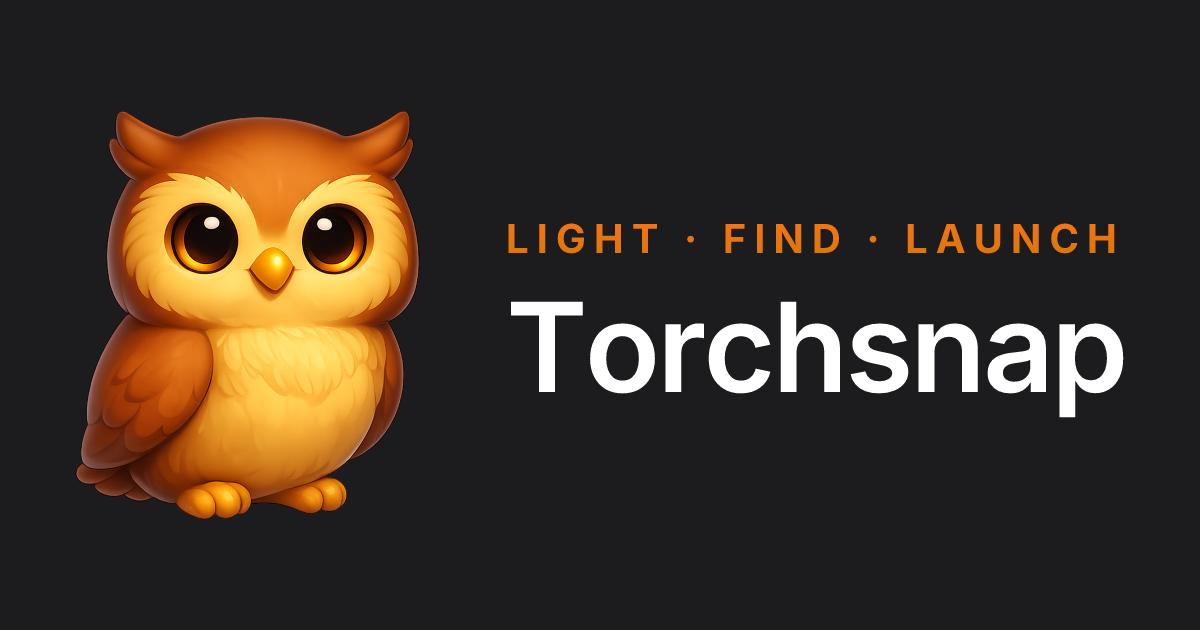
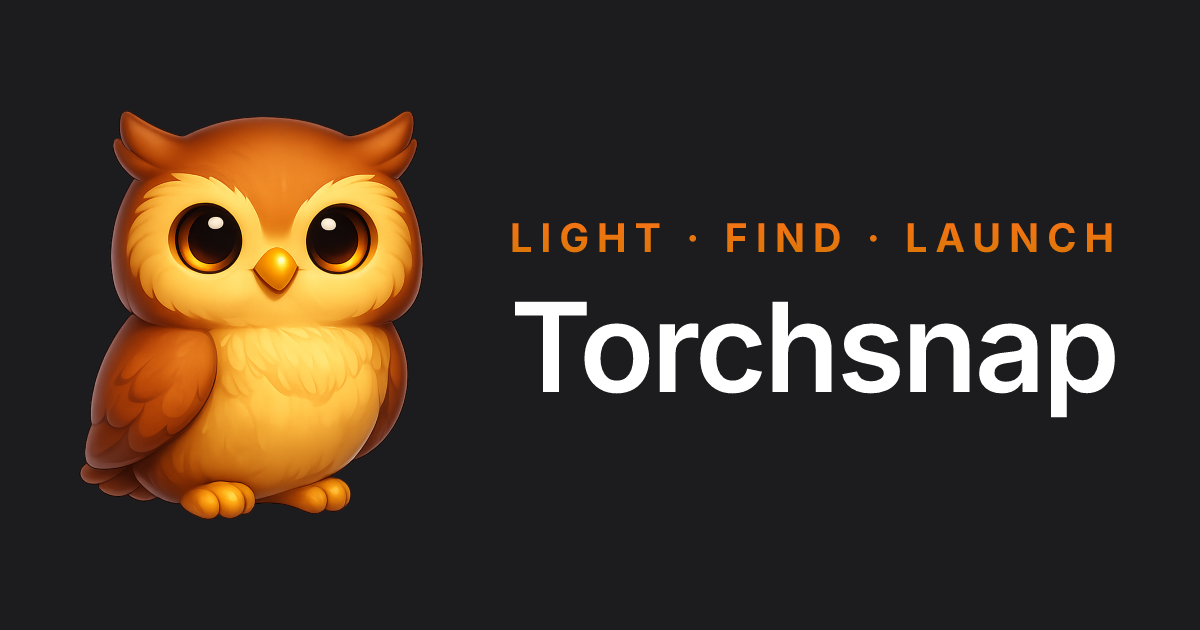
Update satori to 0.33 and re-tune the OG card for its text shaping
Satori 0.33 shapes text with HarfBuzz. The wordmark picks up kerning,
and regular spaces no longer receive letter-spacing, which collapsed the
gaps around the eyebrow separators. The eyebrow now uses non-breaking
spaces and a recalibrated font size so it matches the wordmark width
again.

diff --git a/web/tools/build-og.tsx b/web/tools/build-og.tsx
@@ -106,10 +106,11 @@ const snappyH = SNAPPY_VISIBLE_HEIGHT;
 //     tracking (-0.025 em), tight line-height (1.05). Sized roughly
 //     2× the live page's 64 px for the OG canvas.
 //
-// Eyebrow font size below was measured once (resvg innerBBox of each
-// rendered text) so its rendered width matches the wordmark's width
-// exactly: 30 → 455 px, 124 → 613 px, ratio 1.347 → 40.4 px.
-const EYEBROW_FONT = 40;
+// Eyebrow font size below was measured once (ink extent of each text
+// row in the rendered PNG) so its rendered width matches the
+// wordmark's width exactly: at 40 px the eyebrow measures 606 px
+// against the wordmark's 600 px, ratio 0.990 → 39.6 px.
+const EYEBROW_FONT = 39.6;
 const WORDMARK_FONT = 124;
 
 const tree = (
@@ -146,7 +147,10 @@ const tree = (
           color: "transparent",
         }}
       >
-        Light · Find · Launch
+        {/* Satori applies letter-spacing to non-breaking spaces but
+            not to regular ones, and the separators need the same
+            tracking as the letters around them. */}
+        {"Light · Find · Launch"}
       </div>
       <div
         style={{
